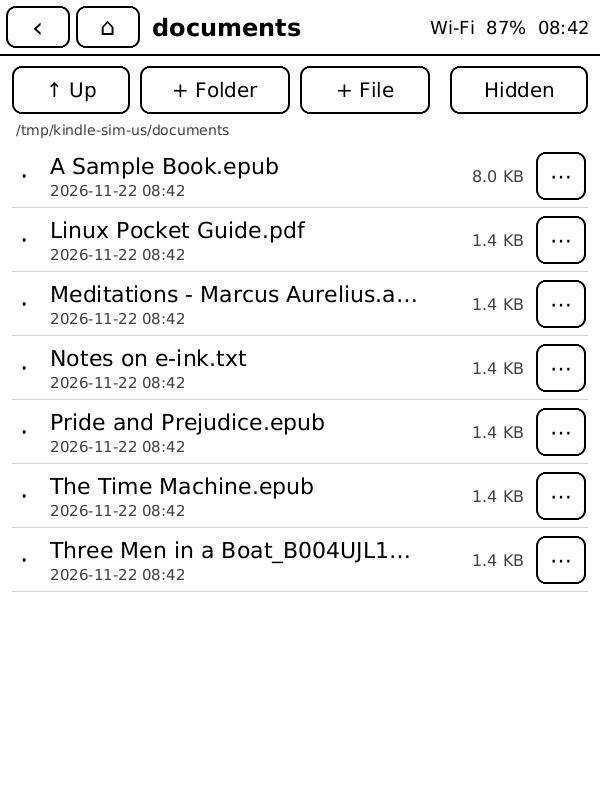
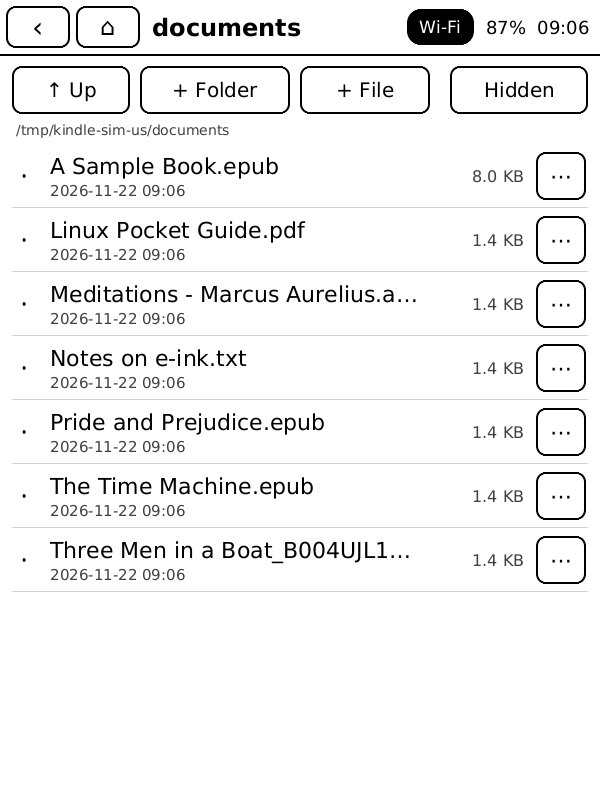
Wi-Fi: reconnect reliably, gentler idle-off, Wi-Fi button in the top bar
- stop() now waits for wpa_supplicant to exit (its control socket outlived it, so the
  next start() thought Wi-Fi was already running and never reconnected after sleep)
- watchdog: on but no address -> reassociate + DHCP every 30 s, full restart after 2 min
- idle-off default 30 min (choices 15/30/60/never)
- top bar shows a Wi-Fi button (connected / connecting / off) that opens the Wi-Fi screen;
  battery and clock still open System info

diff --git a/src/main.rs b/src/main.rs
@@ -105,6 +105,10 @@ struct Main {
     cpu_fast: bool,
     /// Wi-Fi was switched off for being idle (or for sleep) and should come back on activity.
     wifi_auto_off: bool,
+    /// Wi-Fi watchdog: when we last saw it on without an address, and when we last nudged it.
+    wifi_no_ip_since: Option<Instant>,
+    wifi_last_fix: Instant,
+    wifi_last_check: Instant,
     last_battery_log: Instant,
 }
 
@@ -115,7 +119,9 @@ impl Main {
         *sys.dash.lock().unwrap() = dashboard::load_cache(&sys);
         let mut m = Main { ui: Ui::new(w, h), sys, sleeping: false, ignore_power_until: None, last_activity: Instant::now(),
                            last_dash_try: None, dash_busy: std::sync::Arc::new(std::sync::Mutex::new(false)),
-                           cpu_fast: true, wifi_auto_off: false, last_battery_log: Instant::now() };
+                           cpu_fast: true, wifi_auto_off: false, last_battery_log: Instant::now(),
+                           wifi_no_ip_since: None, wifi_last_fix: Instant::now(),
+                           wifi_last_check: Instant::now() };
         m.ui.push(Box::new(apps::Home::new()), &mut m.sys);
         if !sim && m.sys.config.get("setup_done") != "yes" {
             m.ui.push(Box::new(settings::SetupApp::new()), &mut m.sys);
@@ -132,13 +138,54 @@ impl Main {
         }
         if self.wifi_auto_off {
             self.wifi_auto_off = false;
-            let w = self.sys.wifi.clone();
+            self.wifi_start("back from idle");
+        }
+    }
+
+    fn wifi_start(&mut self, why: &str) {
+        log(&format!("wifi: on ({why})"));
+        let w = self.sys.wifi.clone();
+        std::thread::spawn(move || {
+            if let Err(e) = w.start() {
+                sys::log(&format!("wifi restart failed: {e}"));
+            }
+        });
+        self.wifi_no_ip_since = Some(Instant::now());
+        self.wifi_last_fix = Instant::now();
+        self.sys.invalidate_status();
+    }
+
+    /// Every few seconds: if Wi-Fi is on but has no address, nudge it (reassociate + DHCP) every 30 s,
+    /// and restart it completely after 2 minutes without success.
+    fn wifi_watchdog(&mut self) {
+        if self.sys.sim || self.wifi_auto_off || !self.sys.wifi.running() {
+            self.wifi_no_ip_since = None;
+            return;
+        }
+        if sys::ip_address(false).is_some() {
+            if self.wifi_no_ip_since.take().is_some() {
+                log("wifi: connected");
+                self.sys.invalidate_status();
+            }
+            return;
+        }
+        let since = *self.wifi_no_ip_since.get_or_insert_with(Instant::now);
+        if self.wifi_last_fix.elapsed() < Duration::from_secs(30) {
+            return;
+        }
+        self.wifi_last_fix = Instant::now();
+        let w = self.sys.wifi.clone();
+        if since.elapsed() > Duration::from_secs(120) {
+            log("wifi: still no address after 2 min, restarting");
+            self.wifi_no_ip_since = Some(Instant::now());
             std::thread::spawn(move || {
+                w.stop();
                 if let Err(e) = w.start() {
                     sys::log(&format!("wifi restart failed: {e}"));
                 }
             });
-            self.sys.invalidate_status();
+        } else {
+            std::thread::spawn(move || w.reconnect());
         }
     }
 
@@ -149,7 +196,11 @@ impl Main {
             self.cpu_fast = false;
             battery::set_governor(self.sys.sim, "ondemand");
         }
-        let wifi_mins: u64 = self.sys.config.get("wifi_idle_off").parse().unwrap_or(15);
+        if self.wifi_last_check.elapsed() >= Duration::from_secs(5) {
+            self.wifi_last_check = Instant::now();
+            self.wifi_watchdog();
+        }
+        let wifi_mins: u64 = self.sys.config.get("wifi_idle_off").parse().unwrap_or(30);
         if wifi_mins > 0 && idle > Duration::from_secs(wifi_mins * 60) && self.sys.wifi.running() && !self.sys.sim
             && !self.sys.ssh.running() && !self.sys.keep_awake && !self.ui.top().busy() {
             log("wifi: off (idle)");

diff --git a/src/sys.rs b/src/sys.rs
@@ -258,8 +258,28 @@ impl Wifi {
         run(&a, false).trim().to_string()
     }
 
+    /// Our wpa_supplicant is alive. (Its control socket can outlive it, so check the process too.)
     pub fn running(&self) -> bool {
-        self.sim || std::path::Path::new(&format!("{WPA_CTRL}/{IFACE}")).exists()
+        if self.sim {
+            return true;
+        }
+        if !std::path::Path::new(&format!("{WPA_CTRL}/{IFACE}")).exists() {
+            return false;
+        }
+        match std::fs::read_to_string("/run/wpa_supplicant.pid").ok().and_then(|p| p.trim().parse::<u32>().ok()) {
+            Some(pid) => std::path::Path::new(&format!("/proc/{pid}")).exists(),
+            None => true,
+        }
+    }
+
+    /// Nudge a running supplicant to find the network again and renew the address.
+    pub fn reconnect(&self) {
+        if self.sim {
+            return;
+        }
+        log("wifi: reconnecting");
+        self.cli(&["reassociate"]);
+        self.start_dhcp();
     }
 
     fn iface_present() -> bool {
@@ -340,6 +360,21 @@ impl Wifi {
             let _ = c.kill();
             let _ = c.wait();
         }
+        // wait for wpa_supplicant to exit, so a later start() really starts it again
+        for _ in 0..20 {
+            if !self.running() {
+                break;
+            }
+            std::thread::sleep(Duration::from_millis(100));
+        }
+        if let Some(pid) = std::fs::read_to_string("/run/wpa_supplicant.pid").ok().and_then(|p| p.trim().parse::<i32>().ok()) {
+            if std::path::Path::new(&format!("/proc/{pid}")).exists() {
+                unsafe { libc::kill(pid, libc::SIGTERM) };
+                std::thread::sleep(Duration::from_millis(300));
+            }
+        }
+        let _ = std::fs::remove_file(format!("{WPA_CTRL}/{IFACE}"));
+        let _ = std::fs::remove_file("/run/wpa_supplicant.pid");
         run(&["ip", "addr", "flush", "dev", IFACE], false);
         run(&["ip", "link", "set", IFACE, "down"], false);
     }
@@ -521,7 +556,8 @@ impl Power {
 pub struct Status {
     pub battery: Option<u32>,
     pub charging: bool,
-    pub wifi: bool,
+    pub wifi: bool,    // connected (has an address)
+    pub wifi_on: bool, // switched on (maybe still connecting)
     pub ssh: bool,
 }
 
@@ -566,10 +602,11 @@ impl Sys {
     }
 
     pub fn status(&mut self) -> Status {
-        if self.status.0.map_or(true, |t| t.elapsed() > Duration::from_secs(20)) {
+        if self.status.0.map_or(true, |t| t.elapsed() > Duration::from_secs(8)) {
             let b = battery(self.sim);
-            let wifi = self.wifi.running() && ip_address(self.sim).is_some();
-            self.status = (Some(Instant::now()), Status { battery: b.capacity, charging: b.charging(), wifi,
+            let wifi_on = self.wifi.running();
+            let wifi = wifi_on && ip_address(self.sim).is_some();
+            self.status = (Some(Instant::now()), Status { battery: b.capacity, charging: b.charging(), wifi, wifi_on,
                                                            ssh: self.ssh.running() });
         }
         self.status.1.clone()

diff --git a/src/ui.rs b/src/ui.rs
@@ -54,6 +54,8 @@ pub enum Hit {
     Swallow,
     /// The header's status area.
     Status,
+    /// The header's Wi-Fi button.
+    WifiStatus,
 }
 
 pub struct HitBox {
@@ -831,6 +833,11 @@ impl Ui {
             Hit::Back => self.go_back(sys),
             Hit::Home => self.home(sys),
             Hit::Swallow => {}
+            Hit::WifiStatus => {
+                if self.top().title() != "Wi-Fi" {
+                    self.push(Box::new(crate::settings::WifiApp::new()), sys);
+                }
+            }
             Hit::Status => {
                 if self.top().title() != "System" {
                     self.push(Box::new(crate::settings::SystemApp), sys);
@@ -907,9 +914,6 @@ fn draw_header(cx: &mut Ctx, title: &str, nav: bool, sys: &mut Sys) {
     }
     let st = sys.status();
     let mut right = Vec::new();
-    if st.wifi {
-        right.push("Wi-Fi".to_string());
-    }
     if st.ssh {
         right.push("SSH".to_string());
     }
@@ -918,11 +922,15 @@ fn draw_header(cx: &mut Ctx, title: &str, nav: bool, sys: &mut Sys) {
     }
     right.push(crate::sys::clock("%H:%M"));
     let rs = right.join("  ");
-    let rw = cx.text(w - 10, HEADER_H / 2, &rs, 18, BLACK, Anchor::RM);
-    if nav {
-        // the status (Wi-Fi, battery) opens System info
-        cx.hit(Rect::new(w - rw - 20, 0, w, HEADER_H), Hit::Status, None, "status");
-    }
+    let sw = cx.text(w - 10, HEADER_H / 2, &rs, 18, BLACK, Anchor::RM);
+    // battery and clock open System info
+    cx.hit(Rect::new(w - sw - 16, 0, w, HEADER_H), Hit::Status, None, "status");
+    // Wi-Fi: a button that shows the state and opens the Wi-Fi screen
+    let (label, on) = if st.wifi { ("Wi-Fi", true) } else if st.wifi_on { ("Wi-Fi…", false) } else { ("Wi-Fi off", false) };
+    let pw = cx.f.width(label, Face::Sans, cx.sz(17)) + 24;
+    let pr = Rect::new(w - sw - 22 - pw, 9, w - sw - 22, HEADER_H - 11);
+    cx.button(pr, label, Some(Hit::WifiStatus), Btn { size: 17, inverted: on, radius: 14, ..Default::default() });
+    let rw = sw + pw + 22;
     let t = cx.ellipsize(title, Face::Bold, 24, w - x - rw - 24);
     cx.bold(x, HEADER_H / 2, &t, 24, BLACK, Anchor::LM);
 }

diff --git a/src/settings.rs b/src/settings.rs
@@ -320,7 +320,7 @@ const T_SYNC_PASS: u32 = 11;
 const T_SYNC_REGISTER: u32 = 12;
 const T_SYNC_SIGNOUT: u32 = 13;
 const T_WIFI_IDLE: u32 = 8;
-const WIFI_IDLE: [u32; 4] = [5, 15, 30, 0];
+const WIFI_IDLE: [u32; 4] = [15, 30, 60, 0];
 const T_WEATHER: u32 = 4;
 
 const T_PASSWORD: u32 = 1;
@@ -385,7 +385,7 @@ impl App for SettingsApp {
         item(cx, &mut y, S_REFRESH, "Full refresh every", &fr, Some("Lower = less ghosting, more flashing"));
         item(cx, &mut y, S_UISCALE, "Menu text size", if sys.config.get("ui_scale") == "large" { "large" } else { "normal" }, None);
         item(cx, &mut y, S_WIFI_AUTO, "Connect Wi-Fi at start", if sys.config.flag("wifi_autostart") { "yes" } else { "no" }, None);
-        let wi = sys.config.get("wifi_idle_off").parse::<u32>().unwrap_or(15);
+        let wi = sys.config.get("wifi_idle_off").parse::<u32>().unwrap_or(30);
         item(cx, &mut y, S_WIFI_IDLE, "Wi-Fi off when idle", &if wi == 0 { "never".to_string() } else { format!("after {wi} min") },
              Some("Saves battery; comes back when you tap"));
         } else {
